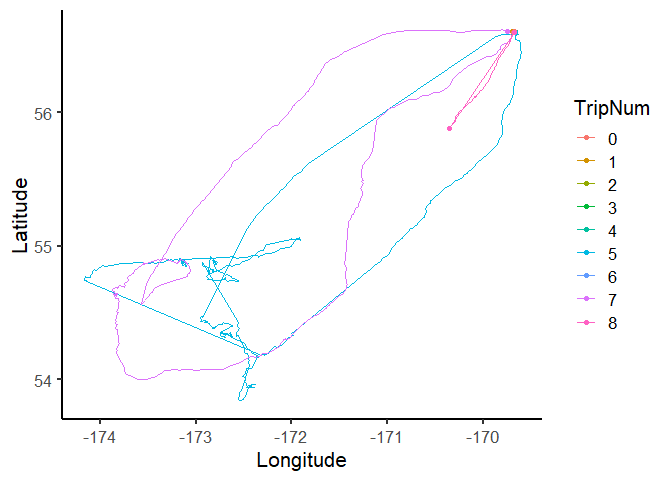
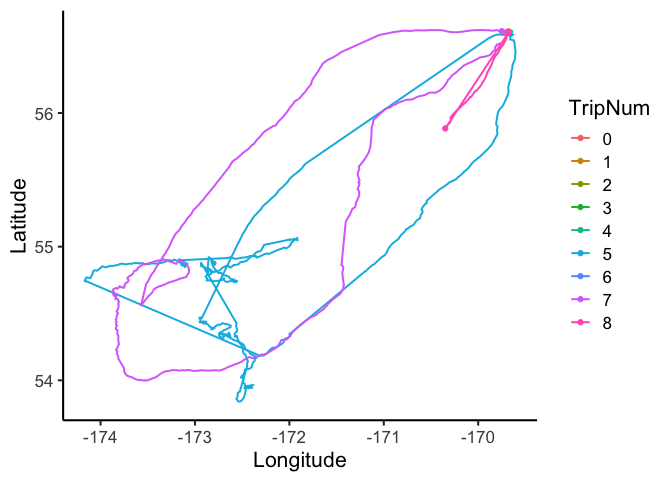
add trip segments and download badge

diff --git a/README.md b/README.md
@@ -4,6 +4,8 @@ Basic Trip Segmentation
 ## Trip segmentation for animal tracking data
 
 [![DOI](https://zenodo.org/badge/DOI/10.5281/zenodo.2888341.svg)](https://doi.org/10.5281/zenodo.2888341)
+[![Github All
+Releases](https://img.shields.io/github/downloads/abfleishman/trakR/total.svg)]()
 
 Cite as: Fleishman, A.B. and Orben, R.A. 2019. trakR: Basic Animal
 Tracking Data Analysis Tools, V0.0.5. GitHub repository.
@@ -14,11 +16,6 @@ library(ggplot2)
 library(maps)
 library(mapdata)
 library(dplyr)
-```
-
-    ## Warning: package 'dplyr' was built under R version 3.5.3
-
-``` r
 library(stringr)
 library(lubridate)
 library(argosfilter)
@@ -69,7 +66,7 @@ tracks$Dist2Col<-trakR::Dist2Colony(tracks = tracks,
                                     ColonyLong = -169.6760)
 ```
 
-# segment trips
+# Split Trips
 
 The `makeTrip` function finds the points where a animal moves some
 treshold distance `DistCutOff` away from the colony and the points where
@@ -94,10 +91,10 @@ head(tracks_w_trips)
     ##              DateTime Longitude Latitude CaptureID Dist2Colony    Dist2Col
     ## 1 2015-06-24 03:34:21 -169.6760 56.60329       B53 0.052719955 0.002265022
     ## 2 2015-06-24 03:36:03 -169.6765 56.60260       B53 0.094288021 0.082873349
-    ## 3 2015-06-24 13:39:08 -169.6768 56.60336       B53 0.008751334 0.049632123
-    ## 4 2015-06-24 13:42:05 -169.6768 56.60339       B53 0.006336524 0.049436792
+    ## 3 2015-06-24 13:39:08 -169.6768 56.60336       B53 0.008751334 0.049632033
+    ## 4 2015-06-24 13:42:05 -169.6768 56.60339       B53 0.006336524 0.049436610
     ## 5 2015-06-24 13:45:08 -169.6768 56.60345       B53 0.007025605 0.049489926
-    ## 6 2015-06-24 13:48:08 -169.6768 56.60343       B53 0.003676799 0.051277667
+    ## 6 2015-06-24 13:48:08 -169.6768 56.60343       B53 0.003676799 0.051277755
     ##   ColonyMovement TripNum
     ## 1           <NA>       0
     ## 2           <NA>       0
@@ -115,3 +112,30 @@ ggplot(tracks_w_trips,aes(Longitude,Latitude,col=factor(TripNum)))+
 ```
 
 ![](README_files/figure-gfm/make%20trips-1.png)<!-- -->
+
+## trip segmentation
+
+Another common task in processing tracking data is to segment a trip
+into a outbound, middle, and inbound leg. This can be done tediously by
+anotating each trip by hand or you can try using the `InOutPoints`
+function in `trakR`.
+
+``` r
+tracks_w_trips$INOut<-InOutPoints(tracks=tracks_w_trips,
+                          CaptureID="CaptureID",
+                          DateTime="DateTime",
+                          TripID="TripNum",
+                          dist2colony="Dist2Colony",lag=3,
+                          nPointsToSmooth =10,minDist2Col = 10,
+                          Lon = "Longitude",Lat="Latitude",
+                          Plot = T,pdfName = "inout_plots.pdf")
+
+ggplot(tracks_w_trips[tracks_w_trips$TripNum%in%c(5,7),],
+       aes(Longitude,Latitude,col=factor(TripNum)))+
+  geom_path(aes(lty=INOut),size=1)+
+  scale_linetype_manual(values = c(1,2,3))+
+  facet_wrap(~TripNum)+
+  theme_classic(base_size = 16)+labs(color="TripNum")
+```
+
+![](README_files/figure-gfm/unnamed-chunk-1-1.png)<!-- -->
